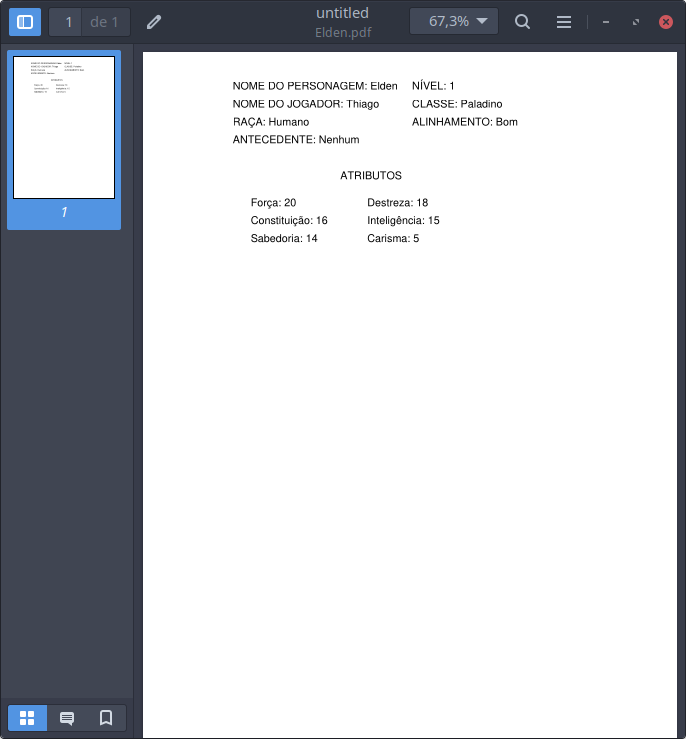
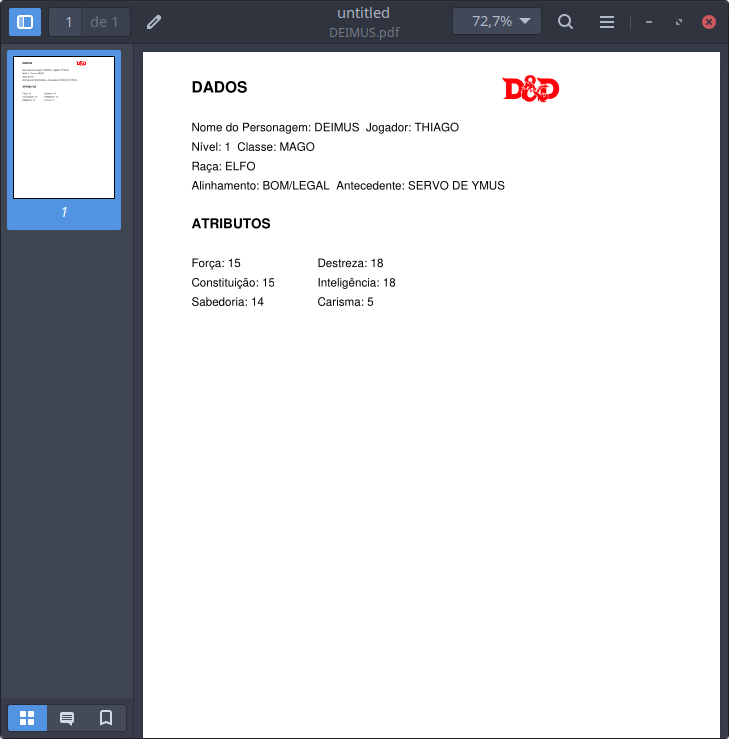
Melhorias na composição do arquivo PDF gerado

diff --git a/pdf.py b/pdf.py
@@ -6,24 +6,42 @@ from reportlab.pdfgen import canvas
 
 def generate(nomepersonagem, nomejogador, raca, classe, nivel, antecedente, alinhamento,
              forca, destreza, constituicao, inteligencia, sabedoria, carisma):
+    nomepersonagem = str(nomepersonagem).upper()
+    nomejogador = str(nomejogador).upper()
+    raca = str(raca).upper()
+    classe = str(classe).upper()
+    antecedente = str(antecedente).upper()
+    alinhamento = str(alinhamento).upper()
+
     c = canvas.Canvas(f'{nomepersonagem}.pdf')
-    c.drawString(100, 800, f'NOME DO PERSONAGEM: {nomepersonagem}')
-    c.drawString(300, 800, f'NÍVEL: {nivel}')
-    c.drawString(100, 780, f'NOME DO JOGADOR: {nomejogador}')
-    c.drawString(300, 780, f'CLASSE: {classe}')
-    c.drawString(100, 760, f'RAÇA: {raca}')
-    c.drawString(300, 760, f'ALINHAMENTO: {alinhamento}')
-    c.drawString(100, 740, f'ANTECEDENTE: {antecedente}')
+    c.drawImage('./ded.png', 370, 720, 60, preserveAspectRatio=True)
+    c.setFont('Helvetica-Bold', 16)
+    c.drawString(50, 800, 'DADOS')
+    c.setFont('Helvetica', 12)
+    c.drawString(50, 760, f'Nome do Personagem: {nomepersonagem}  Jogador: {nomejogador}')
+    c.drawString(50, 740, f'Nível: {nivel}  Classe: {classe}')
+    c.drawString(50, 720, f'Raça: {raca}')
+    c.drawString(50, 700, f'Alinhamento: {alinhamento}  Antecedente: {antecedente}')
+
+    c.setFont('Helvetica-Bold', 14)
 
     # ATRIBUTOS
 
-    c.drawString(220, 700, 'ATRIBUTOS')
-    c.drawString(120, 670, f'Força: {forca}')
-    c.drawString(250, 670, f'Destreza: {destreza}')
-    c.drawString(120, 650, f'Constituição: {constituicao}')
-    c.drawString(250, 650, f'Inteligência: {inteligencia}')
-    c.drawString(120, 630, f'Sabedoria: {sabedoria}')
-    c.drawString(250, 630, f'Carisma: {carisma}')
+
+    c.drawString(50, 660, 'ATRIBUTOS')
+    c.setFont('Helvetica', 12)
+    c.drawString(50, 620, f'Força: {forca}')
+    c.drawString(180, 620, f'Destreza: {destreza}')
+    c.drawString(50, 600, f'Constituição: {constituicao}')
+    c.drawString(180, 600, f'Inteligência: {inteligencia}')
+    c.drawString(50, 580, f'Sabedoria: {sabedoria}')
+    c.drawString(180, 580, f'Carisma: {carisma}')
+
+    # my_text = "Meu nome é Thiago\ntenho 29 anos"
+    # textobject = c.beginText(50, 500)
+    # for line in my_text.splitlines(False):
+    #     textobject.textLine(line.rstrip())
+    # c.drawText(textobject)
 
     c.showPage()
     c.save()
